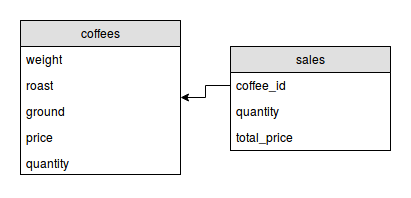
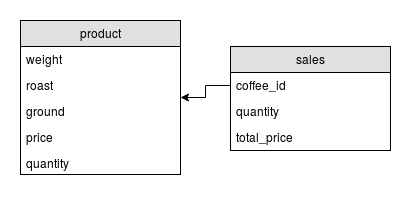
Improve README [2]

diff --git a/README.md b/README.md
@@ -22,76 +22,85 @@ Utilize o [TryRuby.org](http://tryruby.org/) para se familiarizar com a sintaxe 
 
 ### Rails
 
-Rails é um framework escrito em Ruby. Para isso, precisamos ter o Ruby instalado (para Linux/Mac, eu utilizo o RVM; para Windows, tem o [RailsInstaller]()). Após isso, podemos instalar o Rails:
+Rails é um framework escrito em Ruby. Para isso, precisamos ter o Ruby instalado (para Linux/Mac, eu utilizo o [RVM](https://rvm.io/); para Windows, tem o [Rails Installer](http://www.railsinstaller.org/pt-BR)). Após isso, podemos instalar o Rails:
 
 ```
 $ gem install rails
 ```
 
-Dependendo da nossa versão do Ruby, o Rails instalado será v4 ou v5. Existem diferenças consideráveis entre as duas, mas isso não irá afeter a nossa aplicação.
-Com a gem do Rails instalada, podemos utilizar os comandos `$ rails <alguma coisa>`. Para criar uma aplicação:
+Dependendo da nossa versão do _Ruby_, a versão do _Rails_ instalado será 4.x.x ou 5.x.x. Existem diferenças consideráveis entre as duas, mas isso não irá afeter a nossa aplicação.
+Com a _gem_ do _Rails_ instalada, podemos utilizar os comandos `$ rails <alguma coisa>`. Para criar nossa aplicação chamada _CoffeeShop_:
 
 ```
 $ rails new coffee_shop
 ```
 
-EXECUTAR RAILS SERVER - TEM QUE DAR SUCESSO
-
 Isso irá criar uma pasta com todas as dependências do projeto e irá executar o `bundle install`, esse comando instala todas as *gems* padrões do Rails, que são definidas no arquivo `Gemfile`.
 
-Como temos uma aplicação criada e as gems instaladas, podemos iniciar o servidor e checar se está tudo ok:
+Como temos uma aplicação criada e as gems instaladas, podemos entrar na pasta do projeto, iniciar o servidor e checar se está tudo ok:
+
 ```
+$ cd coffee_shop
 $ rails server
 ```
 
-Você pode acessar o servidor acessando [localhost:3000](http://localhost:3000). A criação da estrutura inicial do projeto é um commit LINKAR PARA GIT COMMIT EM PT!
+Você pode acessar o servidor acessando [localhost:3000](http://localhost:3000).
 
-Para isso, criaremos um repositório na pasta do projeto:
+A criação da estrutura inicial do projeto é alteração sufiente para criarmos um [commit](https://git-scm.com/docs/git-commit) (não que exista limite min/máx de alterações necessárias para um commit ¯\_(ツ)_/¯). Para isso, criaremos um repositório na pasta do projeto:
+
 ```
 $ git init
 ```
 
 Você pode adicionar todos os arquivos e criar um commit chamado "Estrutura inicial" com os seguintes comandos:
+
 ```
 $ git add .
 $ git commit -m "Estrutura inicial"
 ```
 
-Voltando a falar do projeto, iremos utilizar as configurações padrões, logo, utilizaremos SQLite para gerenciamento do banco de dados - com isso, não iremos nos preocupar em configurar conexão nem instalar o PostgreSQL.
+Voltando a falar do projeto, iremos utilizar as configurações padrões. Logo, utilizaremos SQLite para gerenciamento do banco de dados - com isso, não iremos nos preocupar em configurar conexão nem instalar o PostgreSQL.
 
-Para iniciar o desenvolvimento da nossa aplicação, iremos criar os modelos (models) que serão abstrações das tabelas no banco de dados. Assim como visto pela modelagem inicial, teremos duas tabelas:
-- coffee e - aaaa
+Para iniciar o desenvolvimento da nossa aplicação, iremos criar os _models_ que serão abstrações das tabelas no banco de dados. Assim como visto pela modelagem inicial, teremos as tabelas `products` e `sales`.
 
 
 ```
-$ rails generate model coffee size:integer type darkness:
+$ rails generate model product weight:integer roast ground price:float quantity:integer
 ```
 
-Temos vários tipos de dados - MANDAR LINKS DO QUE É EM SQL E O QUE É EM RUBY' - definimos o tipo de cada atributo na criação do modelo.
+Serão criadas também as colunas `id`, `created_at` e `updated_at`, que são gerenciadas pelo `ActiveRecord` e essas duas últimas no formato de data.
 
-Obs.: Rails possui muitas configurações que são feitas através de convenções (_Convention Over Configuration_ === CADE LINKS:), por isso iremos construir todos os modelos, controladores etc em inglês, e como o plural em português é bem diferente do jeito que é feito em inglês, as coisas ficariam bem confusas se fizermos em português (e.g. se a gente tiver um modelo "papel" seria criado uma tabela "papels").
+Temos vários tipos de dados, onde definimos o tipo de cada atributo na criação do modelo - quando não especificamos nenhum, o tipo `string` é utilizado.
+
+**Obs.:** _Rails_ possui muitas configurações que são feitas através de [convenções](http://rubyonrails.org/doctrine/#convention-over-configuration), por isso iremos construir todos as _models_, _controllers_ etc em inglês, e como o plural em português é bem diferente do jeito que é feito em inglês, as coisas ficariam bem confusas se fizermos em português (e.g. se a gente tiver um modelo "papel" seria criado uma tabela "papels").
 
 A saída desse comando vai ser algo parecido com isso:
 ```
-Running via Spring preloader in process 31198
+Running via Spring preloader in process 14385
 invoke  active_record
-create    db/migrate/20171123121103_create_coffees.rb
-create    app/models/coffee.rb
+create    db/migrate/20171124001336_create_products.rb
+create    app/models/product.rb
 invoke    test_unit
-create      test/models/coffee_test.rb
-create      test/fixtures/coffees.yml
+create      test/models/product_test.rb
+create      test/fixtures/products.yml
 ```
 
-Iremos ignorar o que foi criado na pasta `test`, já que não iremos falar sobre (mas testes são essenciais em uma aplicação, então leia sobre isso!). O que nos interessa agora é o que está em `db/migrate` e em `app/models`.
+Iremos ignorar o que foi criado na pasta `test`, já que não iremos falar sobre (mas testes são essenciais em uma aplicação, então leia sobre isso!). O que nos interessa agora é o que está em `db/migrate/` e em `app/models/`.
 
-A migração gerada contem um script do `ActiveRecord` para criar a tabela `coffees` e seus atributos. Esse monte de número no início do nome do arquivo é o _timestamp_ do momento da criação da migração.
+A migração gerada contem um script do `ActiveRecord` para criar a tabela `products` e seus atributos. Esse monte de número no início do nome do arquivo é o _timestamp_ do momento da criação da migração.
 
-O arquivo do modelo (`app/models/coffee.rb`) só contem a definição da classe. É no modelo que iremos - em alguns instantes - definir os relacionamentos e as validações referentes a entidade `coffee`.
+O arquivo do model [app/models/product.rb](app/models/product.rb) só contem a definição da classe. É nesse arquivo que iremos - em alguns instantes - definir os relacionamentos e as validações referentes a entidade `product`.
 
 Repetiremos os mesmos passos para criar um modelo de `purchase`:
 
 ```
-$ rails g model purchase coffee_id:integer
+$ rails g model purchase product_id:integer quantity:integer total_price:float
+```
+
+Para efetuar essas alterações, utilizaremos uma rake:
+
+```
+$ rake db:migrate
 ```
 
 Agora que temos os modelos criados e definidos, é possível utilizar o _Rails Console_ parar adicionar dados ao banco.
@@ -100,10 +109,12 @@ Agora que temos os modelos criados e definidos, é possível utilizar o _Rails C
 $ rails console
 ```
 
-```
-> Coffeee.new
-> coffeee.create
-> Coffee.create(aaa:aaa:aa:)
+```bash
+irb(main):001:0> Product.create(weight: 250, roast: 'dark', ground: 'medium', price: 22, quantity: 200)
+  (0.1ms)  begin transaction
+  SQL (0.3ms)  INSERT INTO "products" ("weight", "roast", "ground", "price", "quantity", "created_at", "updated_at") VALUES (?, ?, ?, ?, ?, ?, ?)  [["weight", 250], ["roast", "dark"], ["ground", "medium"], ["price", 22.0], ["quantity", 200], ["created_at", "2017-11-24 00:21:17.081579"], ["updated_at", "2017-11-24 00:21:17.081579"]]
+  (47.8ms)  commit transaction
+=> #<Product id: 1, weight: 250, roast: "dark", ground: "medium", price: 22.0, quantity: 200, created_at: "2017-11-24 00:21:17", updated_at: "2017-11-24 00:21:17">
 ```
 
 Para construir (agora de verdade) a aplicação, iremos começar pela definição das rotas. Rotas são basicamente as URLs que permitem que a gente acesse diferentes páginas da aplicação.
